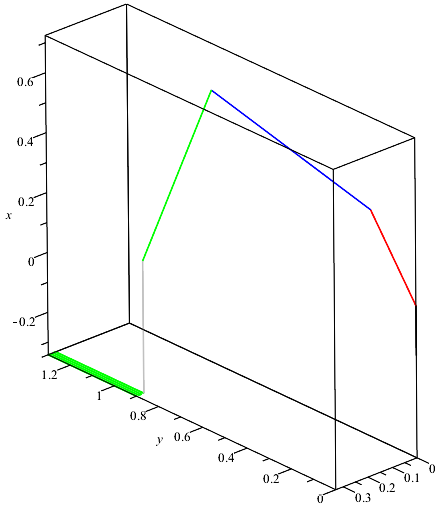
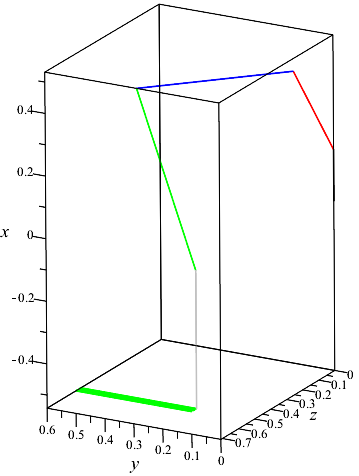
texto resultado base rig completo

diff --git a/chap04.tex b/chap04.tex
@@ -3,23 +3,224 @@
 
 
 % -.~.-.~.-.~.-.~.-.~.-.~.-.~.-.~.-.~.-.~.-.~.-
-\section{Resultados} \label{sec::resultados}
+\section{Resultados de simulação} \label{sec::resultados}
+
+Os resultados das simulações de cada tarefa proposta são apresentados a seguir
+para os seguintes casos de base:
+%
+\begin{enumerate*}[label=\emph{\roman*})]
+	\item base rígida;
+	\item base de testes;
+	\item base modular PRP;
+	\item base telescópica PRPP.
+\end{enumerate*}
+%
+
+Em todos os casos são avaliados os erros de posicionamento, velocidade e
+orientação da ferramenta, ao longo de toda a tarefa. Na
+seção~\ref{sec::comparacao} são comparados os resultados para as diferentes
+bases.
 
 \subsection{Base rígida} \label{sec::res_rigida}
 
+Seguem os resultados do modelo de base rígida que utiliza o modelo MBS --
+Robô.
+A Figura~\ref{fig::anim3D_base_rig} apresenta o resultado da simulação no ambiente
+3D de cada tarefa.
+
+\begin{figure}[h]
+    \centering
+    \begin{subfigure}[b]{0.45\textwidth}
+        \includegraphics[width=\textwidth]{figs/t1_anima3D_base_rig}
+        \caption{Tarefa 1}
+        \label{fig::t1_anima3D_base_rig}
+    \end{subfigure}
+    \quad %add desired spacing between images, e. g. ~, \quad, \qquad, \hfill
+    % etc.
+      %(or a blank line to force the subfigure onto a new line)
+    \begin{subfigure}[b]{0.40\textwidth}
+        \includegraphics[width=\textwidth]{figs/t2_anima3D_base_rig}
+        \caption{Tarefa 2}
+        \label{fig::t2_anima3D_base_rig}
+    \end{subfigure}
+    \caption{Resultado no ambiente 3D das simulações para base rígida}
+    \label{fig::anim3D_base_rig}
+\end{figure}
+
+Estes resultados representam uma referência para posterior comparação com os
+resultados obtidos para o modelo MBS acoplado.
+
+
+\subsubsection{Posição da ferramenta}
+
+Os resultados de simulação da posição da ponta da ferramenta para Tarefa 1 são
+apresentados a seguir. A Figuras~\ref{fig::t1_posf_base_rig} fornece o valor de
+cada coordenada $x, y, z$ no referencial inercial (linha cheia) e também o valor
+de referência (linha tracejada), fornecido pela cinemática inversa. A
+Figura~\ref{fig::t1_posf_base_rig} fornece o erro de posição, ou seja, a
+diferença entre o valor de referência dado pela cinemática inversa e o efetivo,
+de cada coordenada, assim como o erro absoluto (linha tracejada).
+
+\begin{figure}[h!]
+	\centering 
+ 	\includegraphics[width=0.80\textwidth]{figs/t1_posf_base_rig}
+ 	\caption{Posições das coordenadas da ferramenta para base rígida -- Tarefa 1}
+ 	\label{fig::t1_posf_base_rig}
+\end{figure}
+
+\begin{figure}[h!]
+	\centering 
+ 	\includegraphics[width=0.80\textwidth]{figs/t1_erroposf_base_rig}
+ 	\caption{Posições das coordenadas da ferramenta para base rígida -- Tarefa 1}
+ 	\label{fig::t1_erroposf_base_rig}
+\end{figure}
+
+Da mesma forma, apresenta-se os resultados de simulação da posição da ponta da
+ferramenta para a Tarefa 2. A Figura~\ref{fig::t2_posf_base_rig} fornece as
+posições efetiva (linhas cheias) e ideal (linhas tracejadas). E a
+Figura~\ref{fig::t2_erroposf_base_rig} o erro de cada coordenada, com respeito
+ao referencial inercial.
+
+\begin{figure}[h!]
+	\centering 
+ 	\includegraphics[width=0.80\textwidth]{figs/t2_posf_base_rig}
+ 	\caption{Posições das coordenadas da ferramenta para base rígida -- Tarefa 2}
+ 	\label{fig::t2_posf_base_rig}
+\end{figure}
+
+\begin{figure}[h!]
+	\centering 
+ 	\includegraphics[width=0.80\textwidth]{figs/t2_erroposf_base_rig}
+ 	\caption{Posições das coordenadas da ferramenta para base rígida -- Tarefa 2}
+ 	\label{fig::t2_erroposf_base_rig}
+\end{figure}
+
+
+\subsubsection{Velocidade da ferramenta}
+
+São apresentados os gráficos da velocidade da ponta da ferramenta (linhas
+cheias) e as velocidades de referência dadas pela cinemática inversa (linhas
+tracejadas), na Figura~\ref{fig::t1_velf_base_rig} para a Tarefa 1 e na
+Figura~\ref{fig::t1_errovelf_base_rig} os erros em relação a velocidade de
+referência, no referencial inercial.
+
+\begin{figure}[h!]
+	\centering 
+ 	\includegraphics[width=0.80\textwidth]{figs/t1_velf_base_rig}
+ 	\caption{Posições das coordenadas da ferramenta para base rígida -- Tarefa 1}
+ 	\label{fig::t1_velf_base_rig}
+\end{figure}
+
+\begin{figure}[h!]
+	\centering 
+ 	\includegraphics[width=0.80\textwidth]{figs/t1_errovelf_base_rig}
+ 	\caption{Posições das coordenadas da ferramenta para base rígida -- Tarefa 1}
+ 	\label{fig::t1_errovelf_base_rig}
+\end{figure}
+
+A seguir, apresenta-se os resultados de simulação da velocidade da ponta da
+ferramenta para a Tarefa 2.
+A Figura~\ref{fig::t2_posf_base_rig} fornece as velocidades efetivas (linhas
+cheias) e ideais (linhas tracejadas). A Figura~\ref{fig::t2_erroposf_base_rig} o
+erro de cada coordenada, com respeito ao referencial inercial.
+
+\begin{figure}[h!]
+	\centering 
+ 	\includegraphics[width=0.80\textwidth]{figs/t2_velf_base_rig}
+ 	\caption{Posições das coordenadas da ferramenta para base rígida -- Tarefa 2}
+ 	\label{fig::t2_velf_base_rig}
+\end{figure}
+
+\begin{figure}[h!]
+	\centering 
+ 	\includegraphics[width=0.80\textwidth]{figs/t2_errovelf_base_rig}
+ 	\caption{Posições das coordenadas da ferramenta para base rígida -- Tarefa 2}
+ 	\label{fig::t2_errovelf_base_rig}
+\end{figure}
+
+\subsubsection{Orientação da ferramenta}
+
+O erro de orientação da ferramenta é resultado da matriz de rotação entre o
+referencial inercial e a orientação do pulso, em função dos ângulos de Euler, em
+relação a orientação desejada. Faz-se uma transformação da matriz de rotação em
+eixo e ângulo, de acordo com as equações~\ref{eq::ang_erro} e
+\ref{eq::eixo_erro}.
+
+A Figura~\ref{fig::t1_erroori_base_rig} apresenta o erro de orientação,
+representado pelo ângulo $\theta$, para a Tarefa 1. A
+Figura~\ref{fig::t2_erroori_base_rig} apresenta o erro de orientação na Tarefa 2.
+
+\begin{figure}[h!]
+	\centering 
+ 	\includegraphics[width=0.80\textwidth]{figs/t1_erroori_base_rig}
+ 	\caption{Erro de orientação da ferramenta para base rígida -- Tarefa
+ 	1}
+ 	\label{fig::t1_erroori_base_rig}
+\end{figure}
+
+
+
+\begin{figure}[h!]
+	\centering 
+ 	\includegraphics[width=0.80\textwidth]{figs/t2_erroori_base_rig}
+ 	\caption{Erro de orientação da ferramenta para base rígida -- Tarefa
+ 	2}
+ 	\label{fig::t2_erroori_base_rig}
+\end{figure}
+
+\subsubsection{Erros máximos - Base rígida}
+
+A Tabela~\ref{tab::erros_base_rig} resume os erros máximos de posição,
+velocidade e orientação encontrados em cada tarefa. Os erros de posição
+são dados nas 3 coordenadas cartesianas do referencial inercial; o erro
+de velocidade é fornecido na direção tangente da trajetória; e o erro de
+orientação é dado como um ângulo $\theta$ na direção do eixo $\omega$.
+
+\begin{table}[h!]
+\centering
+\caption{Resumo dos erros máximos encontrados -- Base Rígida}
+\label{tab::erros_base_rig}
+\begin{tabular}{@{}ccccccc@{}}
+\toprule
+         & \multicolumn{3}{c}{\textbf{Posição $[mm]$}} & \textbf{Velocidade $[m/s]$} & \multicolumn{2}{c}{\textbf{Orientação $[rad]$}} 	\\ \midrule
+         & x          & y          & z          & tangente            & $\theta$            & $\omega$         		\\
+Tarefa 1 & 1,5        & 9,0        & 20,0       & 0,30                &	0,021				& [0,995,~-0,960,~-0,029]                  	\\
+Tarefa 2 & 0,07       & 16,5	   & 11,5       & 0,45                & 0,032				& [0,999,~0,002,~0,046] \\ \bottomrule
+\end{tabular}
+\end{table}
+
+
 \subsection{Base de testes} \label{sec::res_testes}
+
+\subsubsection{Posição da ferramenta}
+
+\subsubsection{Velocidade da ferramenta}
+
+\subsubsection{Orientação da ferramenta}
 
 \subsection{Base modular PRP} \label{sec::res_prp}
 
+\subsubsection{Posição da ferramenta}
+
+\subsubsection{Velocidade da ferramenta}
+
+\subsubsection{Orientação da ferramenta}
+
 \subsection{Base telescópica PRPP} \label{sec::res_prpp}
 
+\subsubsection{Posição da ferramenta}
+
+\subsubsection{Velocidade da ferramenta}
+
+\subsubsection{Orientação da ferramenta}
+
 
 % -.~.-.~.-.~.-.~.-.~.-.~.-.~.-.~.-.~.-.~.-.~.-
-\section{Comparação dos resultados}
+\section{Comparação dos resultados} \label{sec::comparacao}
 
 
 % -.~.-.~.-.~.-.~.-.~.-.~.-.~.-.~.-.~.-.~.-.~.-
-\section{Possíveis soluções}
+\section{Possíveis soluções} \label{sec::solucoes}
 
 % if we have a proper knowledge about the dynamics of the system including the
 % base motion dynamics, we can develop sophisticated control methods.

diff --git a/chap03.tex b/chap03.tex
@@ -2914,7 +2914,7 @@ representação no ambiente 3D com o robô no início do primeiro paralelo.
 %
 \begin{figure}[h!]
     \centering
-    \begin{subfigure}[b]{0.45\textwidth}
+    \begin{subfigure}[b]{0.50\textwidth}
         \includegraphics[width=\textwidth]{figs/traj2}
         \caption{Traçado da trajetória 2}
         \label{fig::traj2}
